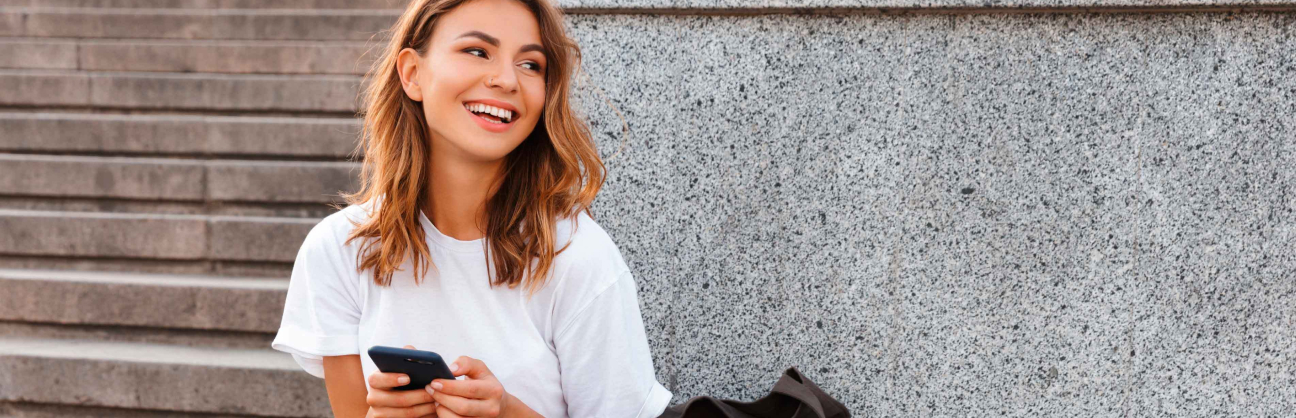
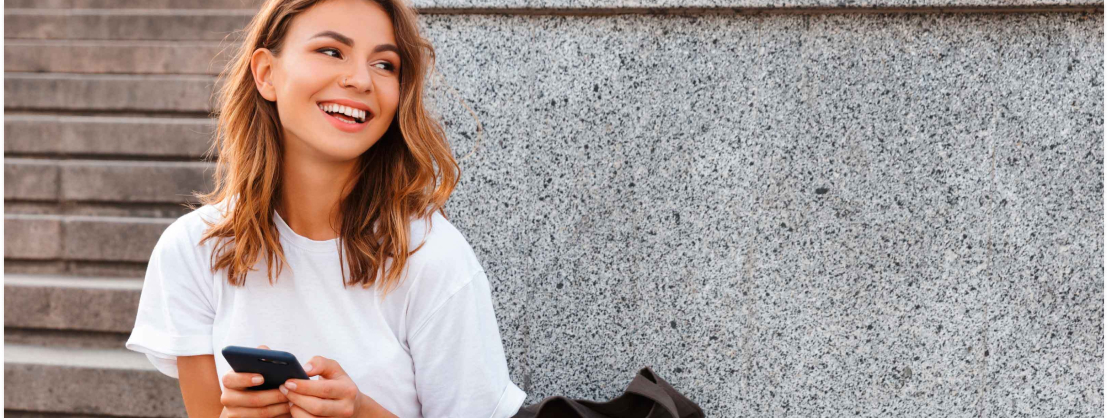
bugfix/123 ajustes de proporção na homwe

diff --git a/loja/frontend/src/components/layout/Oferta.vue b/loja/frontend/src/components/layout/Oferta.vue
@@ -4,14 +4,14 @@
         <img src="/images/oferta.jpg" />
         <h3>VEJA O QUE NOSSOS CLIENTES ESTÃO DIZENDO SOBRE NÓS!</h3>
         <p>
-            A qualidade do serviço é, de forma geral, realmente superior aos concorrentes do mercado. 
+            A qualidade do serviço é, de forma geral, realmente superior aos concorrentes do mercado.
         </p>
     </div>
 </template>
 
 <style scoped>
 .container {
-    width: 1296px;
+    width: 1100px;
     height: 418px;
     margin: auto;
     margin-top: 59px;
@@ -22,14 +22,14 @@
 
 .container .opacidade {
     background: green;
-    width: 1296px;
+    width: 1100px;
     height: 418px;
     position: absolute;
     opacity: 50%;
 }
 
 .container h3 {
-    font-size: 38px;
+    font-size: 32px;
     position: absolute;
     width: 100%;
     top: 28%;
@@ -39,7 +39,8 @@
 .container p {
     font-size: 30px;
     position: absolute;
-    width: 65%;
-    top: 47%;
+    width: 75%;
+    top: 40%;
+    left: 15%;
 }
 </style>

diff --git a/loja/frontend/src/components/layout/UltimasBlog.vue b/loja/frontend/src/components/layout/UltimasBlog.vue
@@ -1,8 +1,8 @@
 <template>    
     <div class="ultimas-do-blog">
-        <h3>
-            últimas do blog
-        </h3>
+        <header>
+            <h3>últimas do blog</h3>
+        </header>
         <div>
             <img src="images/post1.png" alt="post1">
             <a href="#" class="titulo">
@@ -51,26 +51,31 @@ body {
 
 .ultimas-do-blog {
     text-align: center;
-    width: 1296px;
-    height: 520px;    
+    width: 1100px;
     margin: auto;
     margin-top: 50px;
     background: #ffffff;
+    display: flex;
+    gap: 10px;
+    justify-content: center;
+    flex-wrap: wrap;
+}
+
+.ultimas-do-blog header {
+    width: 100%;
 }
 
 .ultimas-do-blog h3 {
     font-size: 20px;
     text-transform: uppercase;
     border-bottom: #E27F54 solid 3px;
-    width: 190px;
+    width: 208px;
     margin: auto;
 }
 
 .ultimas-do-blog div {
     width: 357px;
     height: 445px;    
-    float: left;
-    margin-left: 54px;
     margin-top: 22px;
     font-size: 14px;
 }

diff --git a/loja/frontend/src/components/categorias/EditarCategoria.vue b/loja/frontend/src/components/categorias/EditarCategoria.vue
@@ -35,7 +35,7 @@ export default {
     }
   },
   async mounted() {
-    const responce = await minhaApi.get(`/categoria/${this.id}`)
+    const responce = await minhaApi.get(`/produto/${this.id}`)
     this.categoria = responce.data
   },
   methods: {
